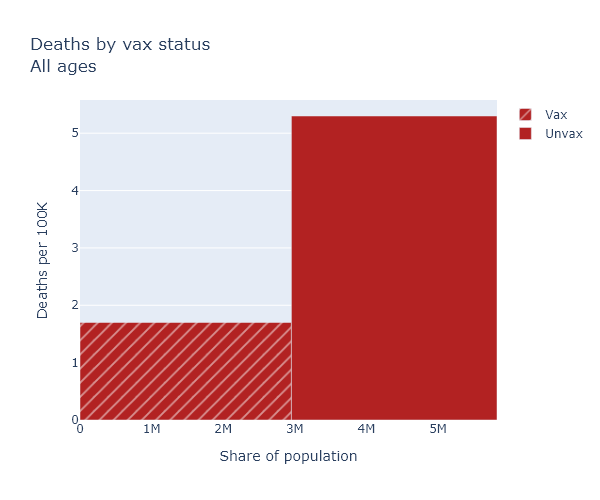
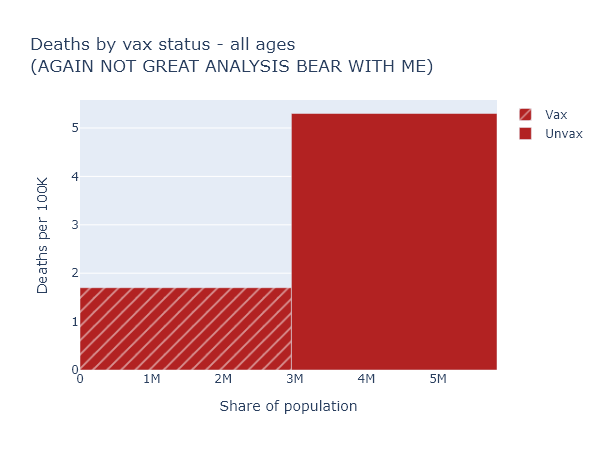
More bar plots

diff --git a/BlogVaccineEffectiveness.py b/BlogVaccineEffectiveness.py
@@ -132,8 +132,10 @@ def plotly_vax_age_bar(vax_age, outcome, priority='Age group', group=None):
     if group is None and priority=='Age group':
         grouped_widths = vax_age.Population.rolling(2).sum()[1::2]
         grouped_x = grouped_widths.cumsum() - grouped_widths/2
+        grouped_edge = grouped_widths.cumsum() - grouped_widths
         grouptext = vax_age['Age group'].unique()
         
+        shapes = list()
         for gg, group in enumerate(grouptext):
             fig.add_annotation(
                 text=group,
@@ -142,12 +144,16 @@ def plotly_vax_age_bar(vax_age, outcome, priority='Age group', group=None):
                 xanchor='center', align='center', 
                 showarrow=False,
             )
-        # fig.update_layout(shapes=[
-        #     dict(
-        #       type= 'line', line_color='gray', line_dash='dash',
-        #       yref= 'paper', y0= 0, y1= 1,
-        #       xref= 'x', x0=datetime.datetime(2020,5,11), x1=datetime.datetime(2020,5,11)
-        #     ),
+            if gg != 0:
+                shapes.append(
+                    dict(
+                      type= 'line', line_color='lightgray', #line_dash='dash',
+                      yref= 'paper', y0= 0, y1= 1,
+                      xref= 'x', x0=grouped_edge.iloc[gg], x1=grouped_edge.iloc[gg],
+                    )
+                )
+
+        fig.update_layout(shapes=shapes)
         #     dict(
         #       type= 'line', line_color='gray', line_dash='dash',
         #       yref= 'paper', y0= 0, y1= 1,
@@ -259,7 +265,26 @@ fig.write_image(
 )
 os.startfile(save_png)
 
+#%% vax/unvax totals
 
+outcome = 'Deaths'
+
+fig = plotly_vax_age_bar(vax_age_all, outcome, group='Total')
+
+fig.update_layout(
+    title_text = outcome + " by vax status - all ages<br>(AGAIN NOT GREAT ANALYSIS BEAR WITH ME)",
+    uniformtext=dict(mode="hide", minsize=10),
+    )
+
+
+save_png = '.\\docs\\assets\\VaxBarAge-Death-Total.png'
+fig.write_image(
+    save_png,
+    width=imwidth,
+    height=imheight,
+    engine='kaleido',
+)
+os.startfile(save_png)
 
 #%% variable width graph - stratified by age
 
@@ -273,40 +298,24 @@ fig.update_layout(
     )
 
     
-savefile = '.\\docs\\assets\\plotly\\VaxBarAge-Death-StratAge.html'
-fig.write_html(
-    file=savefile,
-    include_plotlyjs='cdn',
-    )      
-os.startfile(savefile)
-
-#%% vax/unvax totals
-
-outcome = 'Deaths'
-
-fig = plotly_vax_age_bar(vax_age_all, outcome, group='Total')
-
-fig.update_layout(
-    title_text = outcome + " by vax status<br>All ages",
-    uniformtext=dict(mode="hide", minsize=10),
-    )
-
-
-save_png = '.\\docs\\assets\\VaxBarAge-Death-Total.png'
+save_png = '.\\docs\\assets\\VaxBarAge-Death-StratAge.png'
 fig.write_image(
     save_png,
-    width=600,
-    height=500,
+    width=700,
+    height=imheight,
     engine='kaleido',
 )
 os.startfile(save_png)
-    
-# savefile = '.\\docs\\assets\\plotly\\VaxBarAge-Death-Total.html'
+
+# savefile = '.\\docs\\assets\\plotly\\VaxBarAge-Death-StratAge.html'
 # fig.write_html(
 #     file=savefile,
 #     include_plotlyjs='cdn',
 #     )      
 # os.startfile(savefile)
+
+
+
 
 #%% vax/unvax with order priority reversed
 
@@ -327,80 +336,7 @@ fig.write_html(
     )      
 os.startfile(savefile)
 
-#%% vax/unvax no age
-# based loosely on mekko example from plotly documentation https://plotly.com/python/bar-charts/
 
-outcome = datasets[2]
-
-vax_age = vax_age_all[outcome]
-
-labels = 'Total'
-
-vax_frac = vax_age.loc[labels, 'Vax fraction']
-
-widths = {'Vax': vax_frac * pop_age[labels],
-          'Unvax': (1-vax_frac) * pop_age[labels]}
-
-widths_total = widths['Vax'] + widths['Unvax']
-
-data = {
-    "Vax": vax_age.loc[labels, 'Vax'],
-    "Unvax": vax_age.loc[labels, 'Unvax']
-}
-
-
-
-fig = go.Figure()
-for key in data:
-    # x = np.cumsum(widths_total) - widths['Unvax']
-    # if key == 'Vax':
-    #     x = x - widths['Vax']
-        
-    x = np.cumsum(widths[key]) - widths[key]
-    if key == 'Unvax':
-        x = x + widths['Vax'].sum()
-        
-    fig.add_trace(go.Bar(
-        name=key,
-        y=[data[key]],
-        x=x,
-        width=[widths[key]],
-        offset=0,
-        marker_color=color[outcome],
-        marker_pattern_shape=pattern[key],
-        # customdata=np.transpose([labels, widths[key]*data[key]]),
-        # texttemplate="%{y} x %{width} =<br>%{customdata[1]}",
-        # textposition="inside",
-        # textangle=0,
-        # textfont_color="white",
-        hovertemplate="<br>".join([
-            "label: %{customdata[0]}",
-            "width: %{width}",
-            "height: %{y}",
-            "area: %{customdata[1]}",
-        ])
-    ))
-
-# fig.update_xaxes(
-#     tickvals=np.cumsum(widths_total)-widths_total/2,
-#     # ticktext= ["%s<br>%d" % (l, w) for l, w in zip(labels, widths_total)]
-#     ticktext= labels
-# )
-
-# fig.update_xaxes(range=[0,100])
-# fig.update_yaxes(range=[0,100])
-
-fig.update_layout(
-    title_text="Cases by Age and Vax - Testing",
-    uniformtext=dict(mode="hide", minsize=10),
-)
-
-savefile = '.\\docs\\assets\\plotly\\VaxBarAge.html'
-fig.write_html(
-    file=savefile,
-    include_plotlyjs='cdn',
-    )      
-os.startfile(savefile)
 
 
 #%% vax/unvax total with age superimposed
@@ -537,78 +473,7 @@ fig.write_html(
 os.startfile(savefile)
 
 
-#%% variable width graph - grouped by vax/unvax
-# based loosely on mekko example from plotly documentation https://plotly.com/python/bar-charts/
 
-outcome = datasets[2]
-
-vax_age = vax_age_all[outcome]
-
-vax_frac = vax_age.loc[labels, 'Vax fraction']
-
-widths = {'Vax': vax_frac * pop_age[labels],
-          'Unvax': (1-vax_frac) * pop_age[labels]}
-
-widths_total = widths['Vax'] + widths['Unvax']
-
-data = {
-    "Vax": vax_age.loc[labels, 'Vax'],
-    "Unvax": vax_age.loc[labels, 'Unvax']
-}
-
-
-
-fig = go.Figure()
-for key in data:
-    # x = np.cumsum(widths_total) - widths['Unvax']
-    # if key == 'Vax':
-    #     x = x - widths['Vax']
-        
-    x = np.cumsum(widths[key]) - widths[key]
-    if key == 'Unvax':
-        x = x + widths['Vax'].sum()
-        
-    fig.add_trace(go.Bar(
-        name=key,
-        y=data[key],
-        x=x,
-        width=widths[key],
-        offset=0,
-        marker_color=color[outcome],
-        marker_pattern_shape=pattern[key],
-        # customdata=np.transpose([labels, widths[key]*data[key]]),
-        # texttemplate="%{y} x %{width} =<br>%{customdata[1]}",
-        # textposition="inside",
-        # textangle=0,
-        # textfont_color="white",
-        hovertemplate="<br>".join([
-            "label: %{customdata[0]}",
-            "width: %{width}",
-            "height: %{y}",
-            "area: %{customdata[1]}",
-        ])
-    ))
-
-fig.update_xaxes(
-    tickvals=np.cumsum(widths_total)-widths_total/2,
-    # ticktext= ["%s<br>%d" % (l, w) for l, w in zip(labels, widths_total)]
-    ticktext= labels
-)
-
-# fig.update_xaxes(range=[0,100])
-# fig.update_yaxes(range=[0,100])
-
-fig.update_layout(
-    title_text="Cases by Age and Vax - Testing",
-    uniformtext=dict(mode="hide", minsize=10),
-)
-
-savefile = '.\\docs\\assets\\plotly\\VaxBarAge.html'
-fig.write_html(
-    file=savefile,
-    include_plotlyjs='cdn',
-    )      
-os.startfile(savefile)
 
 
 
